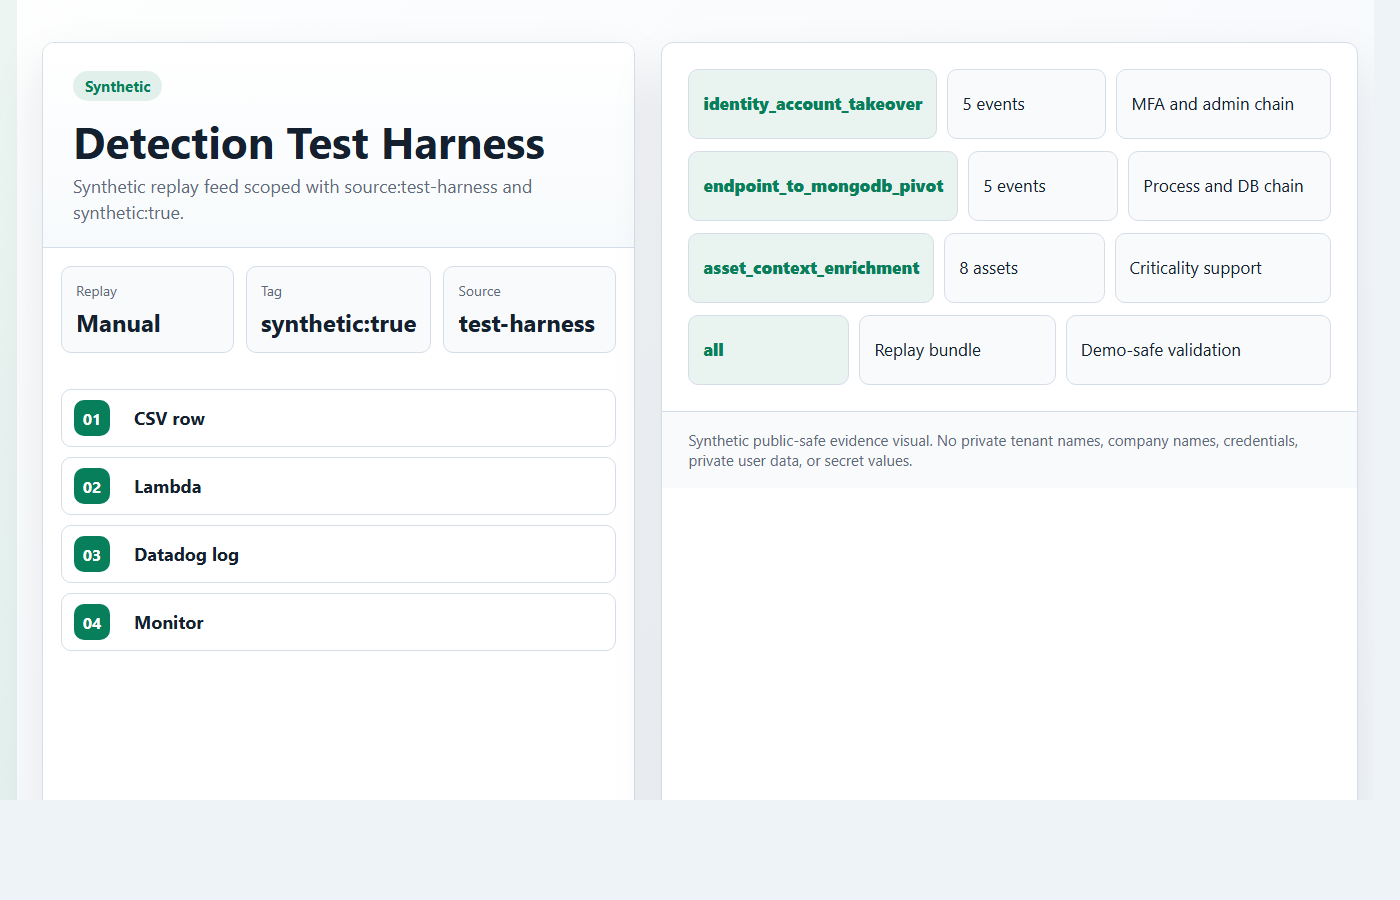
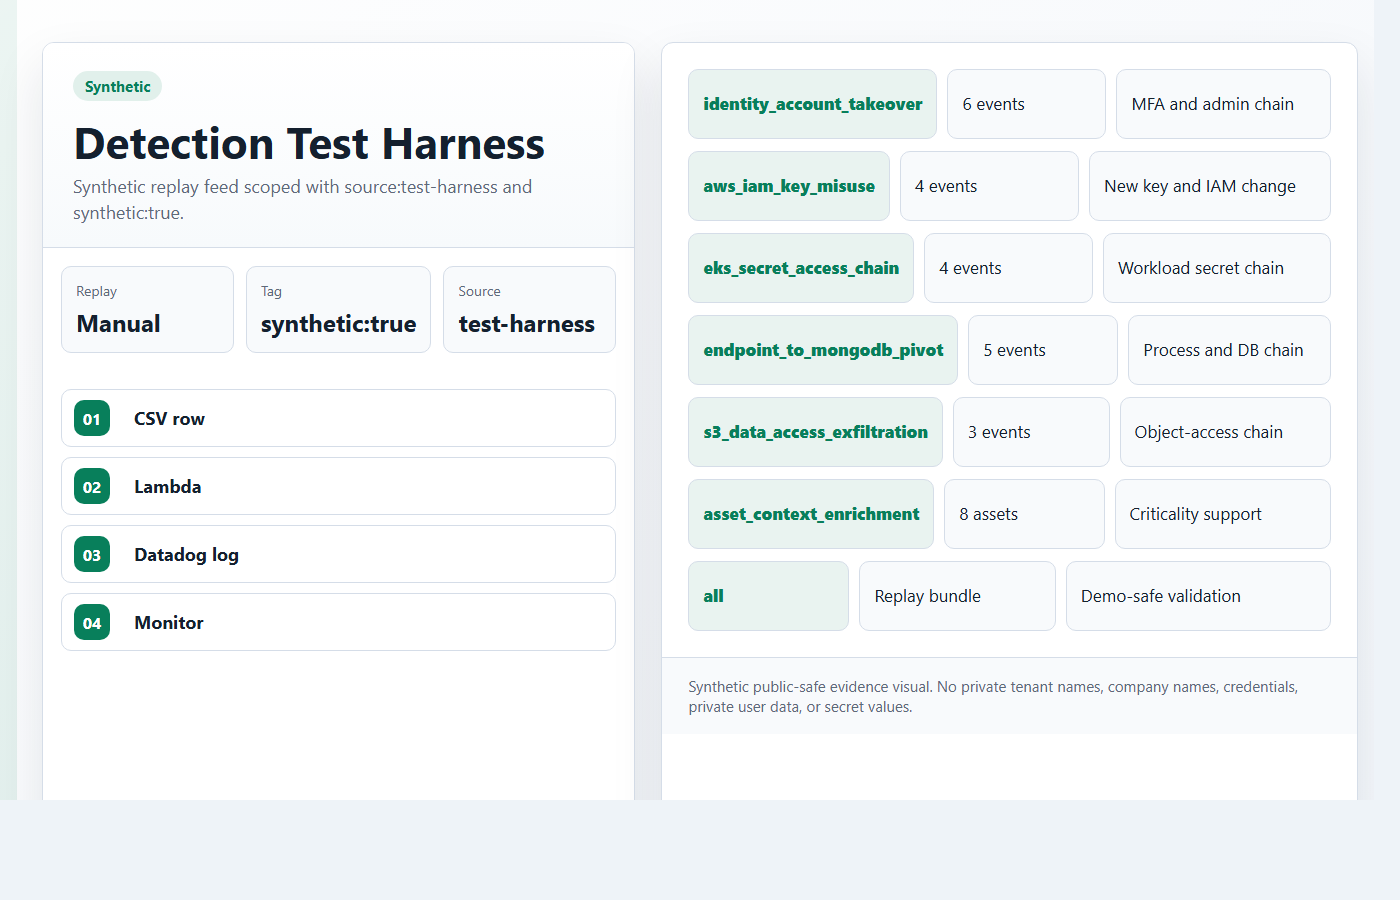
Align scenario consistency across evidence and monitors

diff --git a/evidence-templates/public-safe/datadog-test-harness-view.html b/evidence-templates/public-safe/datadog-test-harness-view.html
@@ -165,12 +165,12 @@
         <span>Replay</span>
         <strong>Manual</strong>
       </div>
-    
+
       <div class="metric">
         <span>Tag</span>
         <strong>synthetic:true</strong>
       </div>
-    
+
       <div class="metric">
         <span>Source</span>
         <strong>test-harness</strong>
@@ -181,17 +181,17 @@
         <b>01</b>
         <span>CSV row</span>
       </div>
-    
+
       <div class="step">
         <b>02</b>
         <span>Lambda</span>
       </div>
-    
+
       <div class="step">
         <b>03</b>
         <span>Datadog log</span>
       </div>
-    
+
       <div class="step">
         <b>04</b>
         <span>Monitor</span>
@@ -201,17 +201,29 @@
       <section class="panel">
         <div class="table">
       <div class="row">
-        <div>identity_account_takeover</div><div>5 events</div><div>MFA and admin chain</div>
+        <div>identity_account_takeover</div><div>6 events</div><div>MFA and admin chain</div>
       </div>
-    
+
+      <div class="row">
+        <div>aws_iam_key_misuse</div><div>4 events</div><div>New key and IAM change</div>
+      </div>
+
+      <div class="row">
+        <div>eks_secret_access_chain</div><div>4 events</div><div>Workload secret chain</div>
+      </div>
+
       <div class="row">
         <div>endpoint_to_mongodb_pivot</div><div>5 events</div><div>Process and DB chain</div>
       </div>
-    
+
+      <div class="row">
+        <div>s3_data_access_exfiltration</div><div>3 events</div><div>Object-access chain</div>
+      </div>
+
       <div class="row">
         <div>asset_context_enrichment</div><div>8 assets</div><div>Criticality support</div>
       </div>
-    
+
       <div class="row">
         <div>all</div><div>Replay bundle</div><div>Demo-safe validation</div>
       </div>

diff --git a/evidence-templates/public-safe/datadog-open-signals-view.html b/evidence-templates/public-safe/datadog-open-signals-view.html
@@ -210,11 +210,11 @@
       </div>
     
       <div class="row">
-        <div>High</div><div>Sensitive S3 retrieval spike</div><div>S3 Data Access</div>
+        <div>High</div><div>Sensitive S3 retrieval spike</div><div>S3 Data Access Exfiltration</div>
       </div>
     
       <div class="row">
-        <div>Critical</div><div>Workload identity secret access</div><div>EKS Secret Chain</div>
+        <div>Critical</div><div>Workload identity secret access</div><div>EKS Secret Access Chain</div>
       </div>
     
       <div class="row">

diff --git a/dashboard/dashboard-data.js b/dashboard/dashboard-data.js
@@ -376,7 +376,7 @@ const APP_DATA = {
         {
           id: "datadog-test-harness",
           title: "Datadog Test Harness View",
-          useCase: "Synthetic validation for identity and endpoint-to-data scenarios",
+          useCase: "Synthetic replay validation across all five canonical scenarios",
           sourceLabel: "Synthetic validation",
           tone: "live",
           image: evidenceImage("datadog-test-harness-view"),

diff --git a/evidence-templates/asset-manifest.md b/evidence-templates/asset-manifest.md
@@ -21,8 +21,8 @@ This manifest tracks the public-safe visual evidence package used by the dashboa
 | `eks-compute-live-view.png` | EKS Secret Access Chain | Compute plane model | Generated |
 | `eks-resources-live-view.png` | EKS Secret Access Chain | Workload model | Generated |
 | `secretsmanager-access-view.png` | EKS Secret Access Chain | Secret-access context | Generated |
-| `mongodb-auth-log-view.png` | Endpoint To MongoDB Pivot | Database activity model | Generated |
-| `crowdstrike-process-tree-view.png` | Endpoint To MongoDB Pivot | Endpoint process-tree model | Generated |
+| `mongodb-auth-log-view.png` | Endpoint to MongoDB Pivot | Database activity model | Generated |
+| `crowdstrike-process-tree-view.png` | Endpoint to MongoDB Pivot | Endpoint process-tree model | Generated |
 | `tenable-criticality-view.png` | Exposure Context | Asset criticality model | Generated |
 
 ## Dashboard Path
@@ -50,10 +50,10 @@ node .\tools\generate-public-evidence-assets.mjs
 | Scenario | Primary Evidence | Supporting Evidence |
 |---|---|---|
 | Identity account takeover | `okta-system-log-view.png`, `google-admin-audit-view.png` | `datadog-test-harness-view.png` |
-| AWS credential misuse | `aws-cloudtrail-key-misuse-view.png`, `datadog-open-signals-view.png` | `datadog-cloud-siem-view.png` |
-| EKS secret access chain | `eks-cluster-active-live-view.png`, `eks-compute-live-view.png`, `eks-resources-live-view.png`, `secretsmanager-access-view.png` | `datadog-cloud-siem-view.png` |
+| AWS credential misuse | `aws-cloudtrail-key-misuse-view.png`, `datadog-open-signals-view.png` | `datadog-cloud-siem-view.png`, `datadog-test-harness-view.png` |
+| EKS secret access chain | `eks-cluster-active-live-view.png`, `eks-compute-live-view.png`, `eks-resources-live-view.png`, `secretsmanager-access-view.png` | `datadog-cloud-siem-view.png`, `datadog-test-harness-view.png` |
 | Endpoint to MongoDB pivot | `crowdstrike-process-tree-view.png`, `mongodb-auth-log-view.png` | `datadog-test-harness-view.png` |
-| S3 data access exfiltration | `aws-s3-console-view.png`, `datadog-open-signals-view.png` | `aws-cloudtrail-key-misuse-view.png` |
+| S3 data access exfiltration | `aws-s3-console-view.png`, `datadog-open-signals-view.png` | `aws-cloudtrail-key-misuse-view.png`, `datadog-test-harness-view.png` |
 
 ## Sanitization Rules
 
